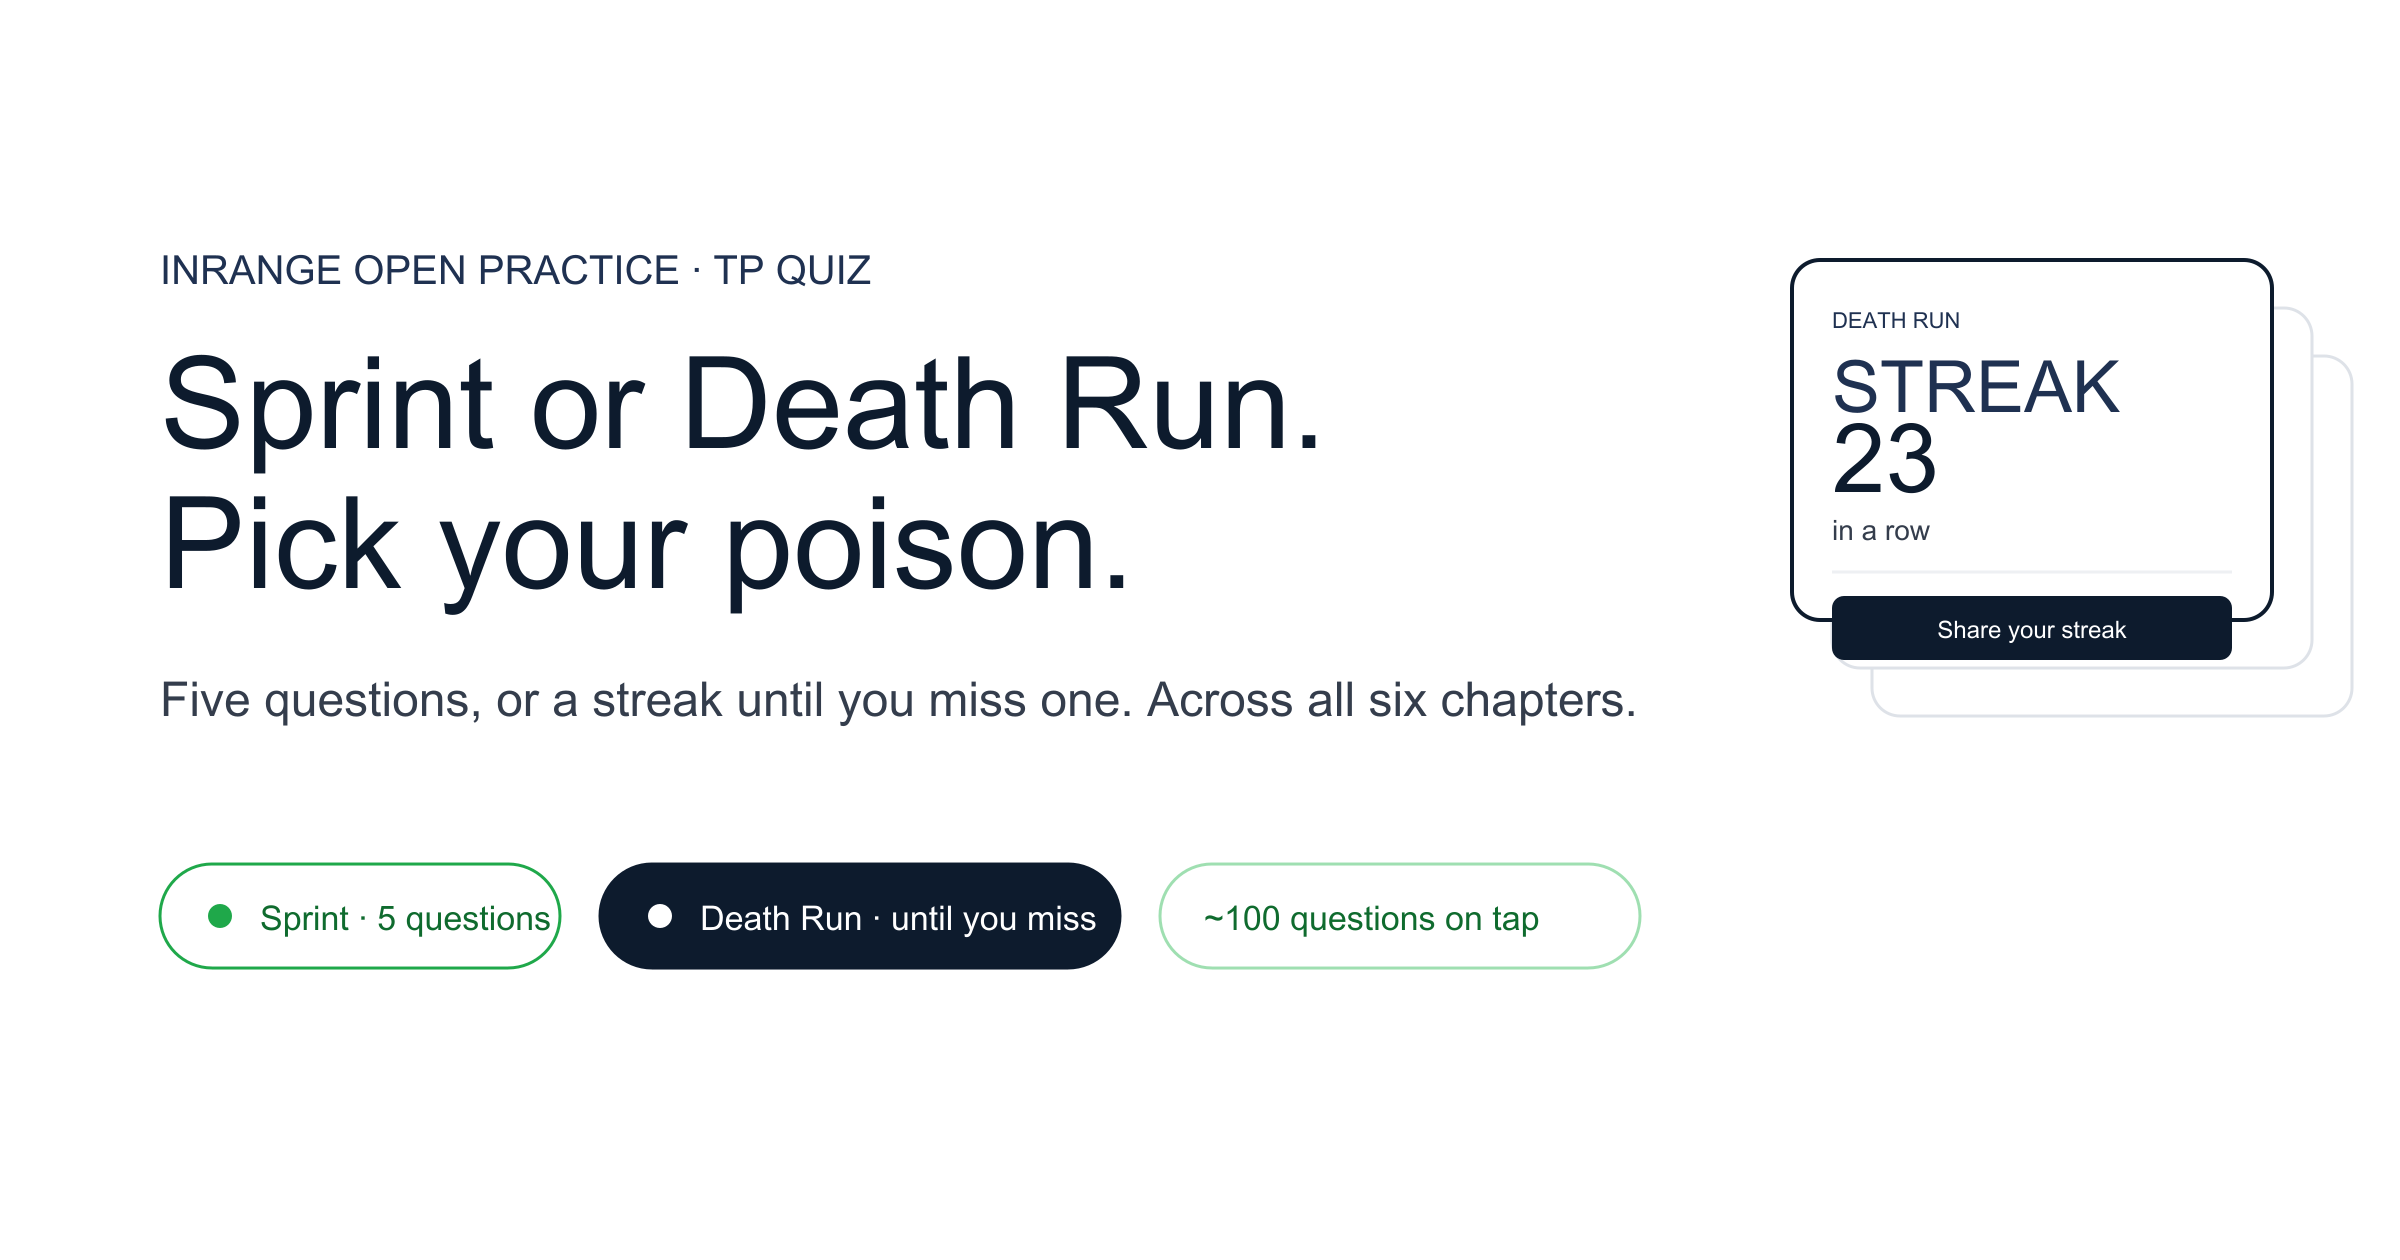
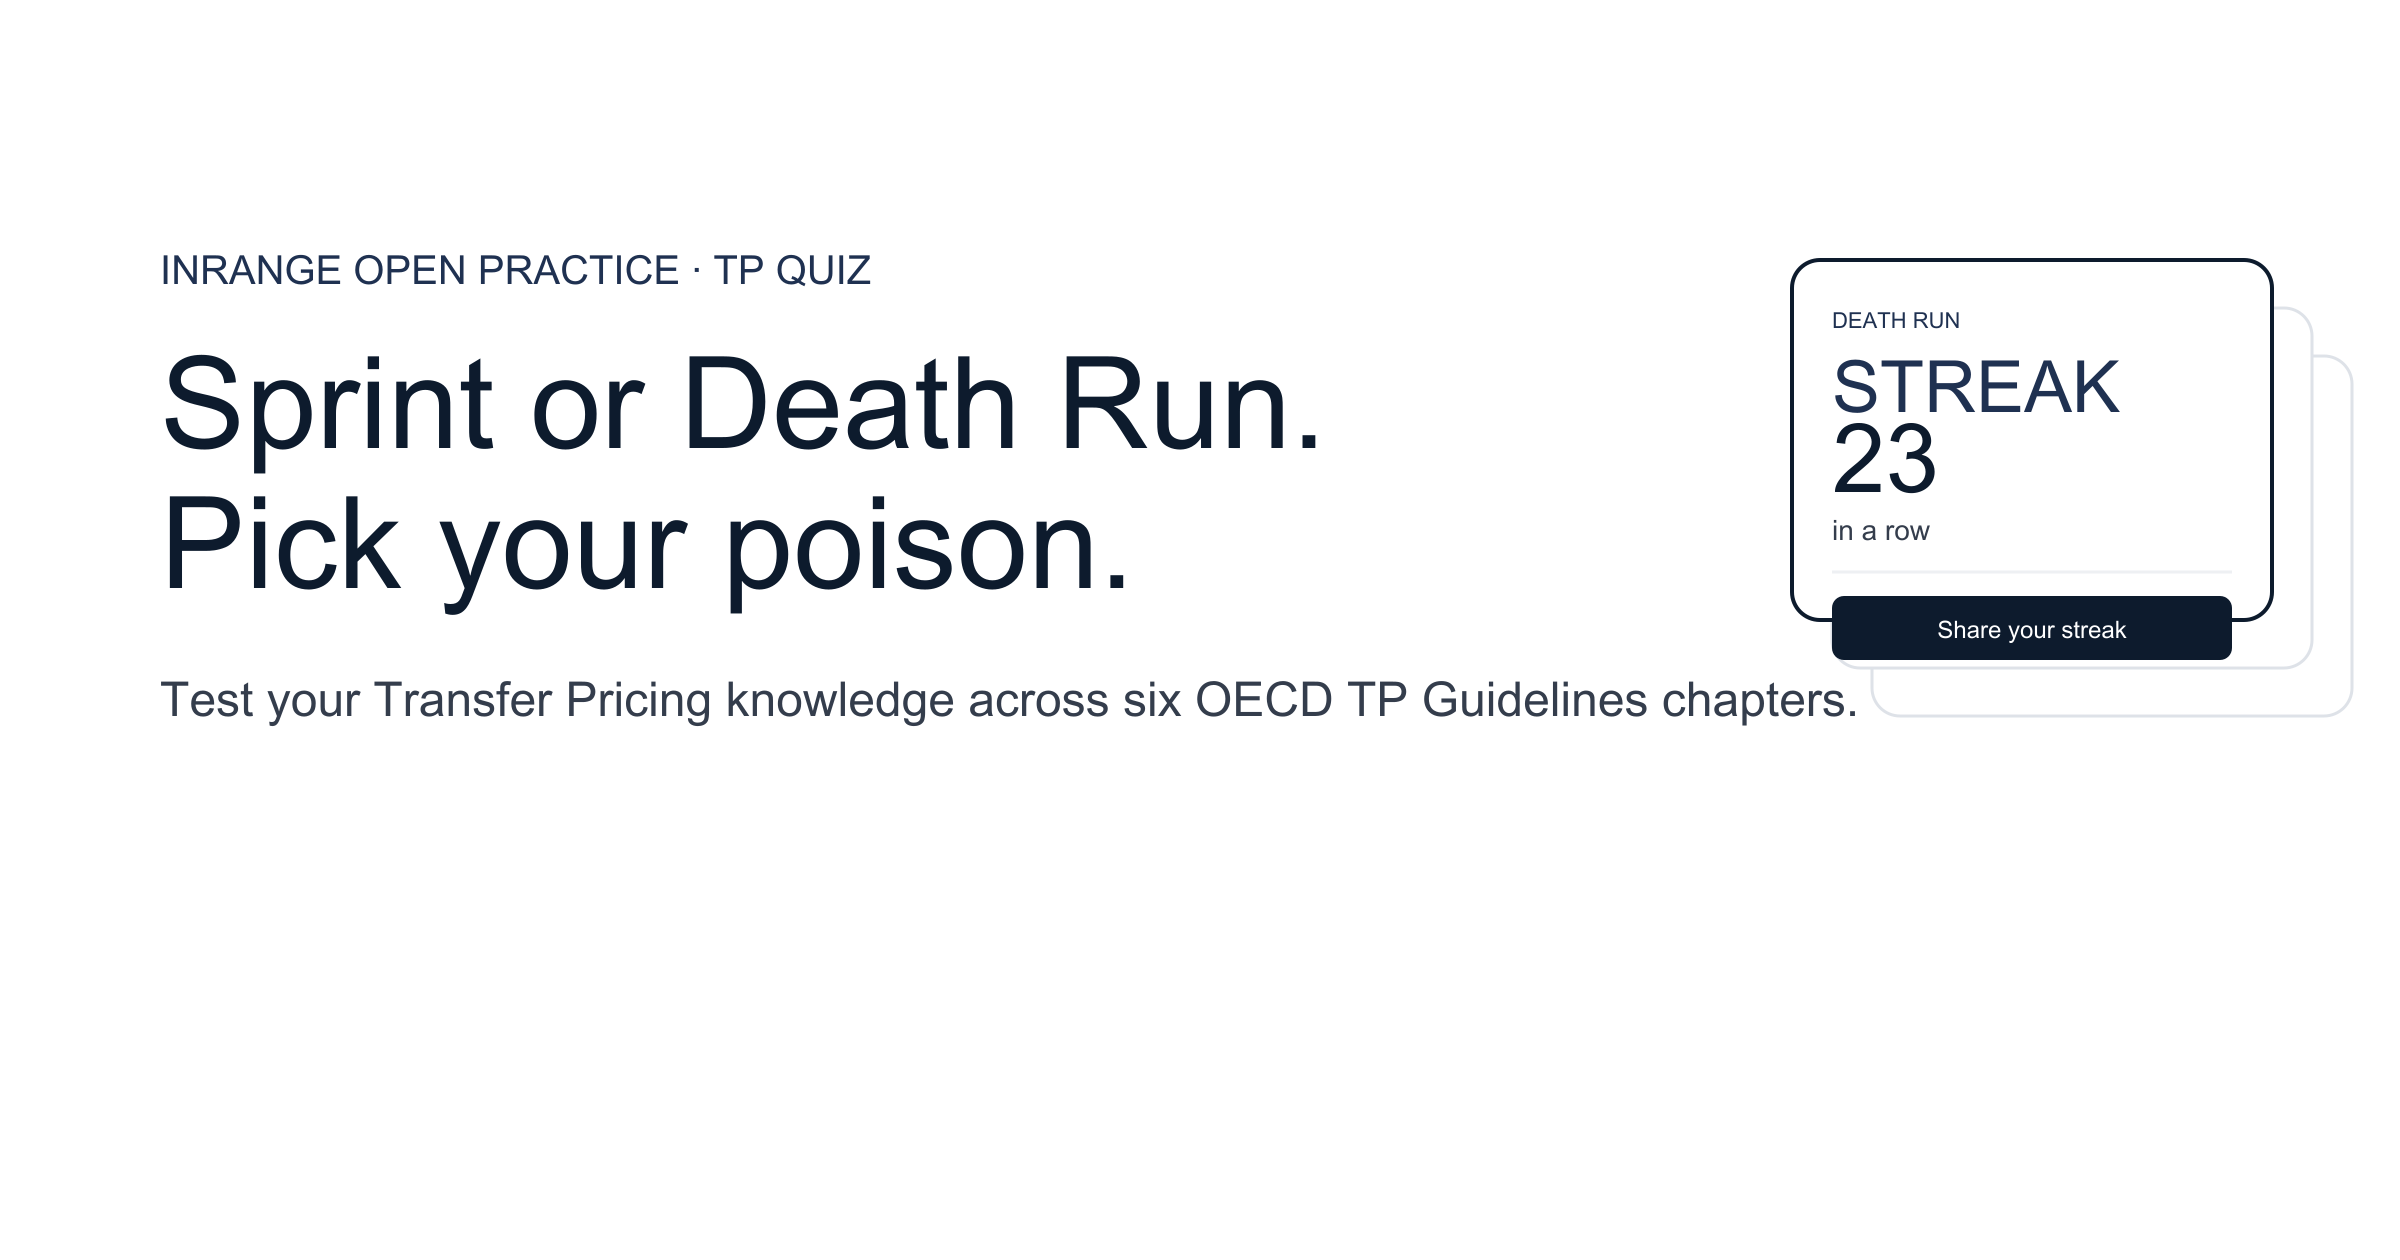
copy(quiz): death-run hover red; drop footer source line; 'connect' CTA; polished OG

Changed region(s): [[0.0625, 0.5262, 0.7812, 0.5881], [0.0625, 0.681, 0.4688, 0.7738], [0.5, 0.681, 0.6562, 0.7738]]

diff --git a/Quiz/index.html b/Quiz/index.html
@@ -514,13 +514,15 @@ a.toc__group-label:hover{color:var(--brand-green-700)}
 .quiz-mode-card__eyebrow{font-size:11px;font-weight:700;letter-spacing:.14em;text-transform:uppercase;color:var(--fg-brand);margin-bottom:6px}
 .quiz-mode-card__title{font-size:22px;font-weight:800;letter-spacing:-.01em;margin:0 0 8px;color:var(--fg-1)}
 .quiz-mode-card__body{font-size:14px;line-height:1.5;color:var(--fg-3);margin:0}
-.quiz-mode-card--deathrun{background:var(--fg-1);border-color:var(--fg-1);color:#fff}
-.quiz-mode-card--deathrun:hover{border-color:var(--brand-navy-800);background:var(--brand-navy-800)}
-.quiz-mode-card--deathrun .quiz-mode-card__title,.quiz-mode-card--deathrun .quiz-mode-card__eyebrow,.quiz-mode-card--deathrun .quiz-mode-card__body{color:#fff}
-.quiz-mode-card--deathrun .quiz-mode-card__eyebrow{color:rgba(255,255,255,.7)}
-.quiz-mode-card--deathrun .quiz-mode-card__body{color:rgba(255,255,255,.85)}
-[data-theme="dark"] .quiz-mode-card--deathrun{background:var(--brand-navy-800);border-color:var(--brand-navy-800)}
-[data-theme="dark"] .quiz-mode-card--deathrun:hover{background:#1f3151;border-color:#1f3151}
+/* Death Run card looks like Sprint at rest; turns bloody red on hover */
+.quiz-mode-card--deathrun:hover{border-color:#B91C1C;background:#B91C1C;color:#fff;transform:translateY(-1px)}
+.quiz-mode-card--deathrun:hover .quiz-mode-card__eyebrow,
+.quiz-mode-card--deathrun:hover .quiz-mode-card__title,
+.quiz-mode-card--deathrun:hover .quiz-mode-card__body{color:#fff}
+[data-theme="dark"] .quiz-mode-card--deathrun:hover{background:#B91C1C;border-color:#B91C1C;color:#fff}
+[data-theme="dark"] .quiz-mode-card--deathrun:hover .quiz-mode-card__eyebrow,
+[data-theme="dark"] .quiz-mode-card--deathrun:hover .quiz-mode-card__title,
+[data-theme="dark"] .quiz-mode-card--deathrun:hover .quiz-mode-card__body{color:#fff}
 
 /* Personal bests */
 .quiz-bests{margin-top:18px;font-size:13px;color:var(--fg-3);text-align:center}
@@ -746,7 +748,7 @@ a.toc__group-label:hover{color:var(--brand-green-700)}
     <section class="closing" aria-label="Call to action">
   <div class="closing__cta-eyebrow">Work together</div>
   <h2 class="closing__cta-title">Beat my Death Run</h2>
-  <p class="closing__cta-body">I've spent more hours with these examples than I care to admit. If you out-streak me, I want to hear about it. Message me on LinkedIn or get in touch by email — happy to compare notes.</p>
+  <p class="closing__cta-body">I've spent more hours with these examples than I care to admit. If you out-streak me, I want to hear about it. Message me on LinkedIn or get in touch by email — happy to connect.</p>
   <div class="closing__cta-buttons">
     <a class="closing__btn closing__btn--primary" href="https://www.linkedin.com/in/aleks-davydov-912a4160/" target="_blank" rel="noreferrer">
       <svg viewBox="0 0 24 24" fill="currentColor" aria-hidden="true"><path d="M20.45 20.45h-3.55v-5.57c0-1.33-.02-3.03-1.85-3.03-1.85 0-2.13 1.45-2.13 2.94v5.66H9.36V9h3.41v1.56h.05c.47-.9 1.64-1.85 3.37-1.85 3.6 0 4.27 2.37 4.27 5.45v6.29zM5.34 7.43a2.06 2.06 0 1 1 0-4.12 2.06 2.06 0 0 1 0 4.12zm1.78 13.02H3.56V9h3.56v11.45zM22.22 0H1.77C.79 0 0 .77 0 1.72v20.56C0 23.23.79 24 1.77 24h20.45c.98 0 1.78-.77 1.78-1.72V1.72C24 .77 23.2 0 22.22 0z"/></svg>
@@ -761,7 +763,7 @@ a.toc__group-label:hover{color:var(--brand-green-700)}
     <div class="toast" id="toast" role="status" aria-live="polite"></div>
 
     <footer class="page-footer">
-      <p>Questions are drawn from the worked examples on the inRange Open Practice walkthrough of the OECD Transfer Pricing Guidelines (2022 edition).<br>Source: <a href="https://www.oecd.org/en/publications/oecd-transfer-pricing-guidelines-for-multinational-enterprises-and-tax-administrations-2022_0e655865-en.html" target="_blank" rel="noreferrer">OECD Transfer Pricing Guidelines (2022)</a>.</p>
+      <p>Questions are drawn from the worked examples on the inRange Open Practice walkthrough of the OECD Transfer Pricing Guidelines (2022 edition).</p>
     </footer>
   </main>
 </div>
